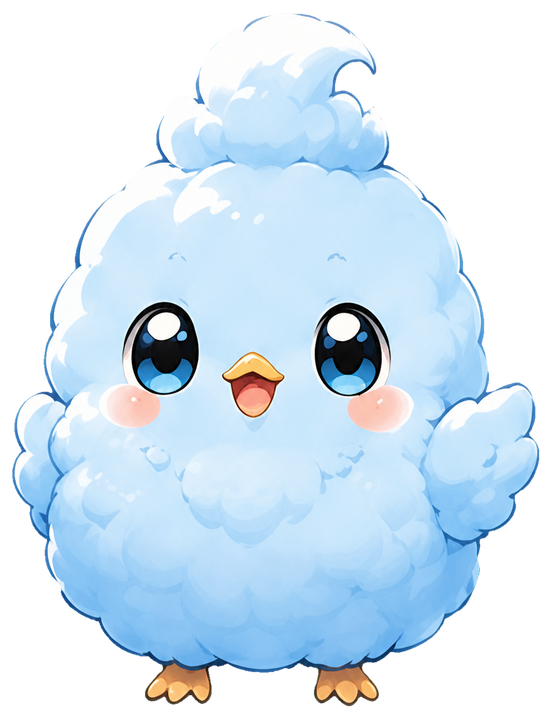
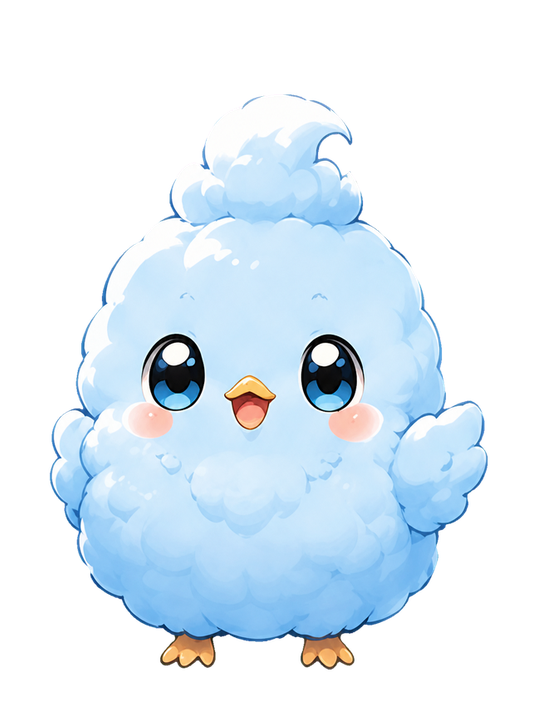
feat: add pet expression variants and reward selector

diff --git a/artifacts/inmu-bank/src/components/admin-panel.tsx b/artifacts/inmu-bank/src/components/admin-panel.tsx
@@ -229,23 +229,33 @@ const REWARD_CALC_KEYS: Array<{ key: string; label: string }> = [
   { key: 'reward_level_inmu',      label: '配布キャラ Lv.15 報酬INMU' },
   { key: 'reward_gacha_lv20_inmu', label: 'ガチャキャラ Lv.20 報酬INMU' },
   { key: 'reward_gacha_lv30_inmu', label: 'ガチャキャラ Lv.30 報酬INMU' },
-  { key: 'reward_nyarushian_lv20_inmu', label: 'ニャルシアン Lv.20 報酬INMU' },
-  { key: 'reward_nyarushian_lv30_inmu', label: 'ニャルシアン Lv.30 報酬INMU' },
-  { key: 'reward_takuya_lv20_inmu', label: '拓也 Lv.20 報酬INMU' },
-  { key: 'reward_takuya_lv30_inmu', label: '拓也 Lv.30 報酬INMU' },
-  { key: 'reward_leon_lv20_inmu', label: 'レオン Lv.20 報酬INMU' },
-  { key: 'reward_leon_lv30_inmu', label: 'レオン Lv.30 報酬INMU' },
-  { key: 'reward_chinge_lv20_inmu', label: 'チンゲ Lv.20 報酬INMU' },
-  { key: 'reward_chinge_lv30_inmu', label: 'チンゲ Lv.30 報酬INMU' },
-  { key: 'reward_tdn_lv20_inmu', label: 'TDN Lv.20 報酬INMU' },
-  { key: 'reward_tdn_lv30_inmu', label: 'TDN Lv.30 報酬INMU' },
-  { key: 'reward_whip_lv20_inmu', label: 'ホイップ Lv.20 報酬INMU' },
-  { key: 'reward_whip_lv30_inmu', label: 'ホイップ Lv.30 報酬INMU' },
   { key: 'gacha_paid_single_inmu', label: 'ガチャ関連INMU価格（有償単発）' },
   { key: 'gacha_paid_eleven_inmu', label: 'ガチャ関連INMU価格（有償11連）' },
   { key: 'slot_unlock_2_inmu',     label: 'スロット解放INMU価格（2枠目）' },
   { key: 'slot_unlock_3_inmu',     label: 'スロット解放INMU価格（3枠目）' },
 ]
+
+const PET_REWARD_CHARACTER_OPTIONS = [
+  { id: 'nyarushian', label: '\u30cb\u30e3\u30eb\u30b7\u30a2\u30f3' },
+  { id: 'takuya', label: '\u62d3\u4e5f' },
+  { id: 'leon', label: '\u30ec\u30aa\u30f3' },
+  { id: 'chinge', label: '\u30c1\u30f3\u30b2' },
+  { id: 'tdn', label: 'TDN' },
+  { id: 'whip', label: '\u30db\u30a4\u30c3\u30d7' },
+] as const
+
+type PetRewardCharacterId = typeof PET_REWARD_CHARACTER_OPTIONS[number]['id']
+
+const PET_CHARACTER_REWARD_KEYS = PET_REWARD_CHARACTER_OPTIONS.flatMap(({ id }) => [
+  `reward_${id}_lv20_inmu`,
+  `reward_${id}_lv30_inmu`,
+])
+
+const REWARD_SETTING_KEYS = [
+  ...REWARD_CALC_KEYS.map(({ key }) => key),
+  ...PET_CHARACTER_REWARD_KEYS,
+]
+
 
 type GachaResultRow = {
   id: number              // gachaInmuWins.id（当選個別ID）
@@ -940,11 +950,12 @@ export function AdminPanel({ users, onRefresh }: { users: UserRow[]; onRefresh: 
   const [calcPriceLoading, setCalcPriceLoading] = useState(false)
   const [calcTargetUsd, setCalcTargetUsd] = useState('20')
   const [calcEditValues, setCalcEditValues] = useState<Record<string, string>>({})
+  const [selectedPetRewardCharacter, setSelectedPetRewardCharacter] = useState<PetRewardCharacterId>('nyarushian')
   const [calcSaving, setCalcSaving] = useState(false)
 
   useEffect(() => {
     const map: Record<string, string> = {}
-    for (const { key } of REWARD_CALC_KEYS) {
+    for (const key of REWARD_SETTING_KEYS) {
       const s = systemSettings.find(x => x.key === key)
       if (s) map[key] = s.value
     }
@@ -1363,7 +1374,7 @@ export function AdminPanel({ users, onRefresh }: { users: UserRow[]; onRefresh: 
   async function saveRewardCalc() {
     setCalcSaving(true)
     try {
-      for (const { key } of REWARD_CALC_KEYS) {
+      for (const key of REWARD_SETTING_KEYS) {
         const val = calcEditValues[key]
         const current = systemSettings.find(s => s.key === key)?.value
         if (val !== undefined && val !== '' && val !== current) {
@@ -2373,27 +2384,65 @@ export function AdminPanel({ users, onRefresh }: { users: UserRow[]; onRefresh: 
             {settingsLoading ? (
               <p className="text-sm text-center text-muted-foreground py-6">読み込み中…</p>
             ) : (
-              REWARD_CALC_KEYS.map(({ key, label }) => {
-                const val = calcEditValues[key] ?? ''
-                const n = Number(val)
-                const usd = calcInmuPrice && calcInmuPrice > 0 && val !== '' && !isNaN(n) ? n * calcInmuPrice : null
-                return (
-                  <Card key={key} className="border-border bg-card p-3 flex flex-col gap-1.5">
-                    <p className="text-xs font-medium">{label}</p>
-                    <div className="flex items-center gap-2">
-                      <Input
-                        type="number"
-                        value={val}
-                        onChange={e => setCalcEditValues(prev => ({ ...prev, [key]: e.target.value }))}
-                        className="min-h-9 flex-1"
-                      />
-                      <span className="text-[10px] text-muted-foreground whitespace-nowrap shrink-0">
-                        {usd != null ? `≈ ${usd.toLocaleString(undefined, { maximumFractionDigits: 2 })} USD` : ''}
-                      </span>
-                    </div>
-                  </Card>
-                )
-              })
+              <>
+                {REWARD_CALC_KEYS.map(({ key, label }) => {
+                  const val = calcEditValues[key] ?? ''
+                  const n = Number(val)
+                  const usd = calcInmuPrice && calcInmuPrice > 0 && val !== '' && !isNaN(n) ? n * calcInmuPrice : null
+                  return (
+                    <Card key={key} className="border-border bg-card p-3 flex flex-col gap-1.5">
+                      <p className="text-xs font-medium">{label}</p>
+                      <div className="flex items-center gap-2">
+                        <Input
+                          type="number"
+                          value={val}
+                          onChange={e => setCalcEditValues(prev => ({ ...prev, [key]: e.target.value }))}
+                          className="min-h-9 flex-1"
+                        />
+                        <span className="text-[10px] text-muted-foreground whitespace-nowrap shrink-0">
+                          {usd != null ? `~ ${usd.toLocaleString(undefined, { maximumFractionDigits: 2 })} USD` : ''}
+                        </span>
+                      </div>
+                    </Card>
+                  )
+                })}
+                <Card className="border-primary/30 bg-primary/5 p-3 flex flex-col gap-3">
+                  <div className="flex flex-col gap-1">
+                    <Label className="text-xs text-muted-foreground">キャラ別レベル報酬</Label>
+                    <select
+                      value={selectedPetRewardCharacter}
+                      onChange={e => setSelectedPetRewardCharacter(e.target.value as PetRewardCharacterId)}
+                      className="flex min-h-10 w-full rounded-md border border-input bg-background px-3 py-2 text-sm ring-offset-background focus:outline-none focus:ring-2 focus:ring-ring"
+                    >
+                      {PET_REWARD_CHARACTER_OPTIONS.map(character => (
+                        <option key={character.id} value={character.id}>{character.label}</option>
+                      ))}
+                    </select>
+                  </div>
+                  {([20, 30] as const).map(level => {
+                    const key = `reward_${selectedPetRewardCharacter}_lv${level}_inmu`
+                    const val = calcEditValues[key] ?? ''
+                    const n = Number(val)
+                    const usd = calcInmuPrice && calcInmuPrice > 0 && val !== '' && !isNaN(n) ? n * calcInmuPrice : null
+                    return (
+                      <div key={key} className="flex flex-col gap-1">
+                        <Label className="text-xs text-muted-foreground">Lv.{level} 報酬INMU</Label>
+                        <div className="flex items-center gap-2">
+                          <Input
+                            type="number"
+                            value={val}
+                            onChange={e => setCalcEditValues(prev => ({ ...prev, [key]: e.target.value }))}
+                            className="min-h-9 flex-1"
+                          />
+                          <span className="text-[10px] text-muted-foreground whitespace-nowrap shrink-0">
+                            {usd != null ? `~ ${usd.toLocaleString(undefined, { maximumFractionDigits: 2 })} USD` : ''}
+                          </span>
+                        </div>
+                      </div>
+                    )
+                  })}
+                </Card>
+              </>
             )}
             <Button className="min-h-9" disabled={calcSaving || settingsLoading} onClick={saveRewardCalc}>
               {calcSaving ? '保存中…' : 'まとめて保存'}

diff --git a/artifacts/inmu-bank/src/features/pet/pet-data.ts b/artifacts/inmu-bank/src/features/pet/pet-data.ts
@@ -31,8 +31,29 @@ import inmuFestivalBlinkImage from '@assets/inmu-pet-festival-810-blink-v1.png'
 import inmuFestivalHungryImage from '@assets/inmu-pet-festival-810-hungry-v1.png'
 import inmuFestivalSleepyImage from '@assets/inmu-pet-festival-810-sleepy-v1.png'
 import chingeImage from '@assets/inmu-pet-chinge-v1.png'
+import chingeAngryImage from '@assets/inmu-pet-chinge-angry-v1.png'
+import chingeAnnoyedImage from '@assets/inmu-pet-chinge-annoyed-v1.png'
+import chingeBlinkImage from '@assets/inmu-pet-chinge-blink-v1.png'
+import chingeHappyImage from '@assets/inmu-pet-chinge-happy-v1.png'
+import chingeHungryImage from '@assets/inmu-pet-chinge-hungry-v1.png'
+import chingePettedImage from '@assets/inmu-pet-chinge-petted-v1.png'
+import chingeSleepyImage from '@assets/inmu-pet-chinge-sleepy-v1.png'
 import tdnImage from '@assets/inmu-pet-tdn-v1.png'
+import tdnAngryImage from '@assets/inmu-pet-tdn-angry-v1.png'
+import tdnAnnoyedImage from '@assets/inmu-pet-tdn-annoyed-v1.png'
+import tdnBlinkImage from '@assets/inmu-pet-tdn-blink-v1.png'
+import tdnHappyImage from '@assets/inmu-pet-tdn-happy-v1.png'
+import tdnHungryImage from '@assets/inmu-pet-tdn-hungry-v1.png'
+import tdnPettedImage from '@assets/inmu-pet-tdn-petted-v1.png'
+import tdnSleepyImage from '@assets/inmu-pet-tdn-sleepy-v1.png'
 import whipImage from '@assets/inmu-pet-whip-v1.png'
+import whipAngryImage from '@assets/inmu-pet-whip-angry-v1.png'
+import whipAnnoyedImage from '@assets/inmu-pet-whip-annoyed-v1.png'
+import whipBlinkImage from '@assets/inmu-pet-whip-blink-v1.png'
+import whipHappyImage from '@assets/inmu-pet-whip-happy-v1.png'
+import whipHungryImage from '@assets/inmu-pet-whip-hungry-v1.png'
+import whipPettedImage from '@assets/inmu-pet-whip-petted-v1.png'
+import whipSleepyImage from '@assets/inmu-pet-whip-sleepy-v1.png'
 import nyarushianRoomImage from '@assets/inmu-pet-room-nyarushian-v1.jpg'
 import takuyaRoomImage from '@assets/inmu-pet-room-takuya-v1.jpg'
 import leonRoomImage from '@assets/inmu-pet-room-leon-v1.jpg'
@@ -219,14 +240,14 @@ export const PET_DEFINITIONS: readonly PetDefinition[] = [
     image: chingeImage,
     expressions: {
       default: chingeImage,
-      blink: chingeImage,
-      happy: chingeImage,
-      sleepy: chingeImage,
-      hungry: chingeImage,
-      petted: chingeImage,
-      affectionate: chingeImage,
-      annoyed: chingeImage,
-      angry: chingeImage,
+      blink: chingeBlinkImage,
+      happy: chingeHappyImage,
+      sleepy: chingeSleepyImage,
+      hungry: chingeHungryImage,
+      petted: chingePettedImage,
+      affectionate: chingePettedImage,
+      annoyed: chingeAnnoyedImage,
+      angry: chingeAngryImage,
     },
     walk: { enabled: true, frames: [chingeImage, chingeImage], distancePercent: 17, tickMs: 310 },
     messages: { overpetted: '……しつこい。' },
@@ -258,14 +279,14 @@ export const PET_DEFINITIONS: readonly PetDefinition[] = [
     image: tdnImage,
     expressions: {
       default: tdnImage,
-      blink: tdnImage,
-      happy: tdnImage,
-      sleepy: tdnImage,
-      hungry: tdnImage,
-      petted: tdnImage,
-      affectionate: tdnImage,
-      annoyed: tdnImage,
-      angry: tdnImage,
+      blink: tdnBlinkImage,
+      happy: tdnHappyImage,
+      sleepy: tdnSleepyImage,
+      hungry: tdnHungryImage,
+      petted: tdnPettedImage,
+      affectionate: tdnPettedImage,
+      annoyed: tdnAnnoyedImage,
+      angry: tdnAngryImage,
     },
     walk: { enabled: true, frames: [tdnImage, tdnImage], distancePercent: 19, tickMs: 260 },
     messages: { overpetted: '試合前だ、集中させろ。' },
@@ -297,14 +318,14 @@ export const PET_DEFINITIONS: readonly PetDefinition[] = [
     image: whipImage,
     expressions: {
       default: whipImage,
-      blink: whipImage,
-      happy: whipImage,
-      sleepy: whipImage,
-      hungry: whipImage,
-      petted: whipImage,
-      affectionate: whipImage,
-      annoyed: whipImage,
-      angry: whipImage,
+      blink: whipBlinkImage,
+      happy: whipHappyImage,
+      sleepy: whipSleepyImage,
+      hungry: whipHungryImage,
+      petted: whipPettedImage,
+      affectionate: whipPettedImage,
+      annoyed: whipAnnoyedImage,
+      angry: whipAngryImage,
     },
     walk: { enabled: true, frames: [whipImage, whipImage], distancePercent: 18, tickMs: 280 },
     messages: { overpetted: 'ふわふわが乱れちゃうよ。' },
